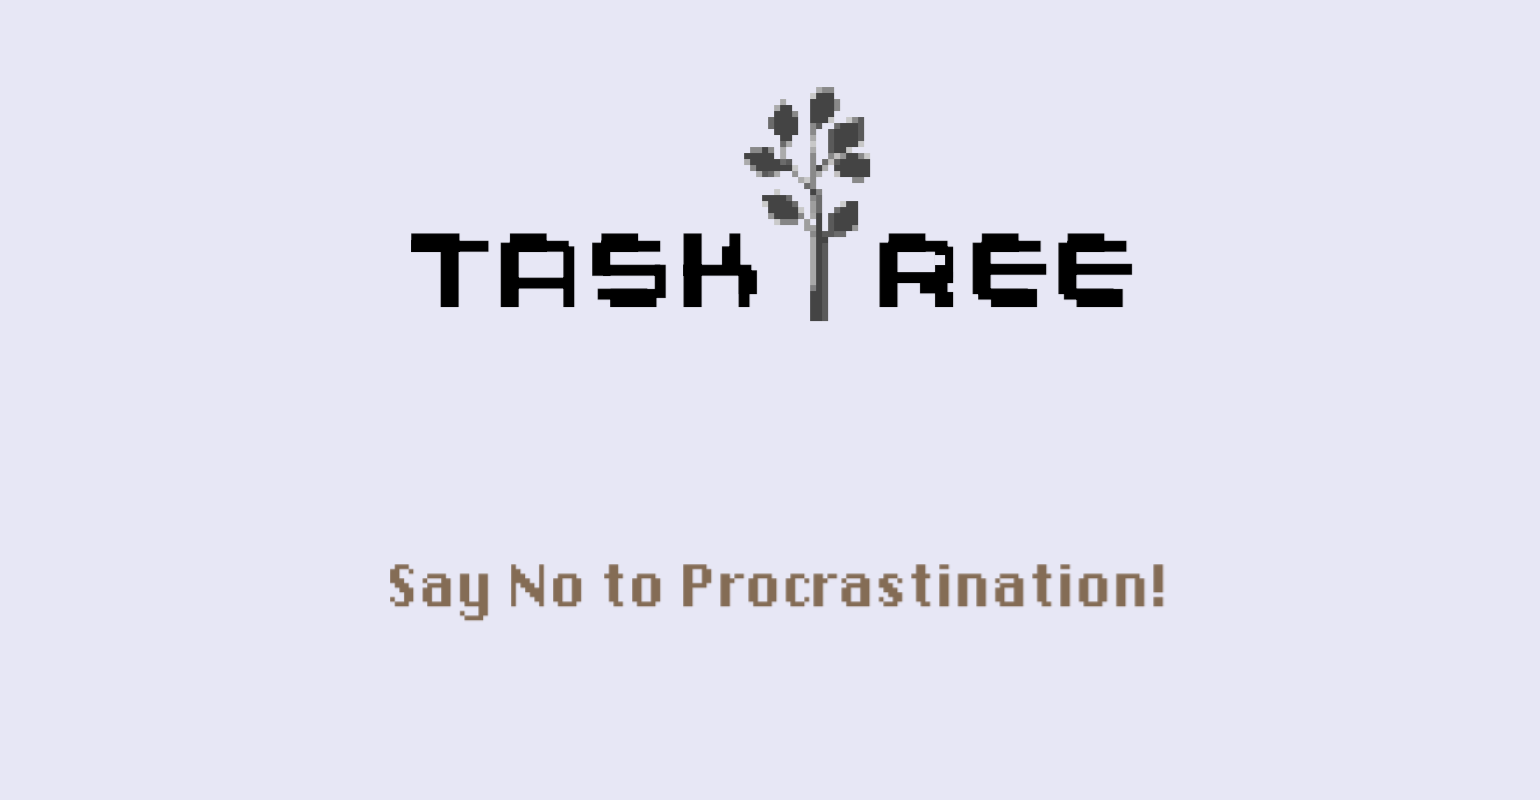
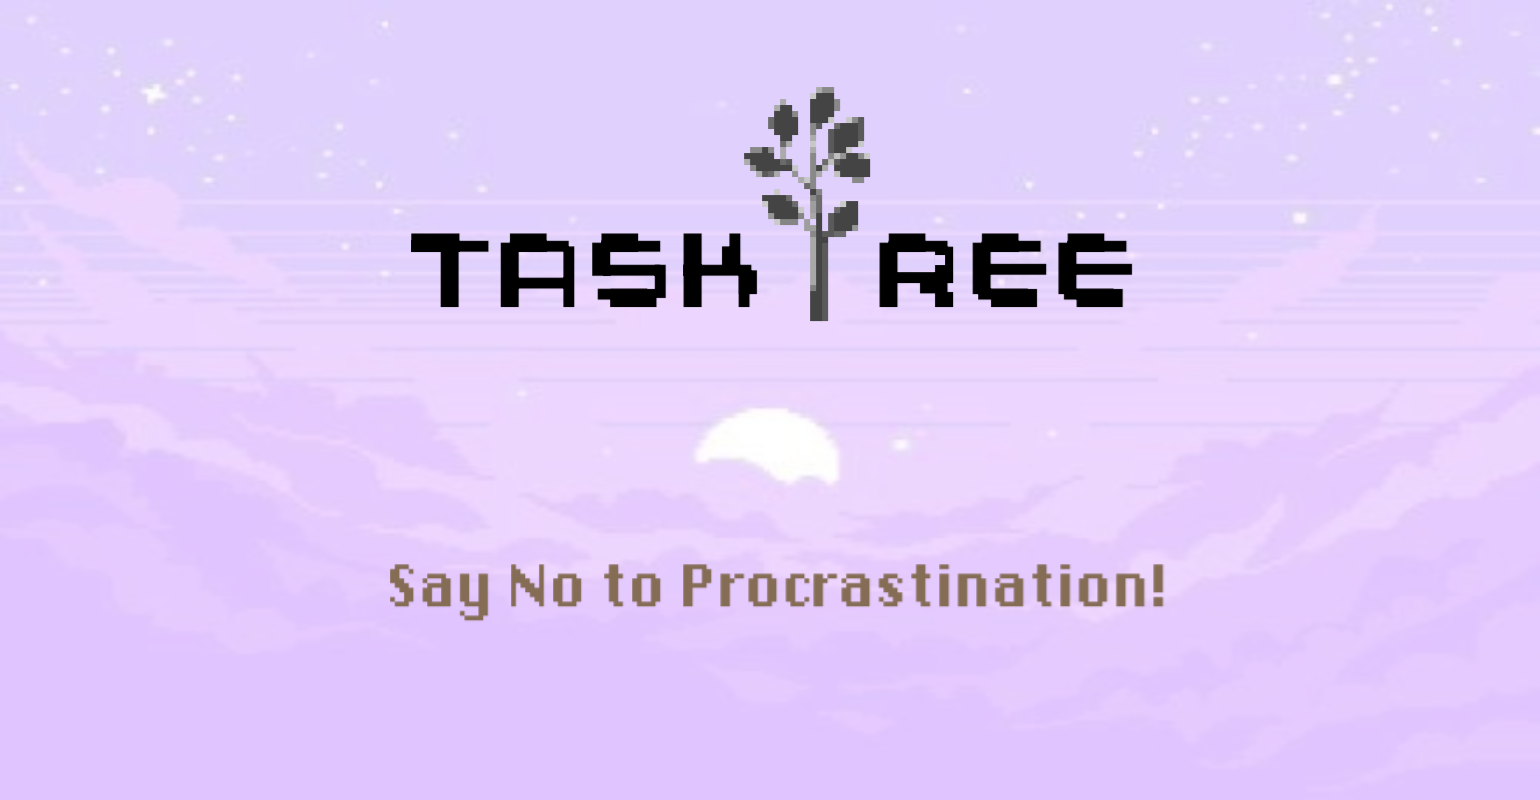
'adding-buttons-and-new-pages-with-new-design'

diff --git a/main.py b/main.py
@@ -44,19 +44,35 @@ decrease_pomodoro = BUTTON(245, 350, 40, 20)
 increase_break = BUTTON(245, 487, 40, 20)
 decrease_break = BUTTON(245, 510, 40, 20)
 
+start = BUTTON(20, 20)
+start_button = BUTTON((screen_width-650),550,100,300) 
+
+plant = BUTTON(0, 0)
+plant_button = BUTTON(90, 290, 70, 70)
+home = BUTTON(0, 0)
+home_button = BUTTON(90, 390, 70, 70)
+garden = BUTTON(0, 0)
+garden_button = BUTTON(90, 490, 70, 70)
+
+
+
 
 #screen functions
 def screen_startup():
     run = True
     while run:
-
+        
         for event in pygame.event.get():
             if event.type == pygame.QUIT:
                 run = False
+            #start button
+            if event.type == pygame.MOUSEBUTTONDOWN:
+                if start_button.check_for_input(pygame.mouse.get_pos()):
+                    screen_home()
+                    print("Switching to home screen.")
 
         bg('Design/frontpage.png')
-        if pygame.mouse.get_pressed()[0] == 1: 
-            screen_home()
+        start.image_button('Design/frontpage-button1.png')
         
         pygame.display.flip()
 
@@ -115,6 +131,14 @@ def screen_home():
                 if settings_button.check_for_input(pygame.mouse.get_pos()):
                     screen_settings()
                     print("Switching to settings screen.")
+                #plant button
+                if plant_button.check_for_input(pygame.mouse.get_pos()):
+                    screen_plant()
+                    print("Switching to plant screen.")
+                #garden button
+                if garden_button.check_for_input(pygame.mouse.get_pos()):
+                    screen_garden()
+                    print("Switching to garden screen.")
             #counting the time
             if event.type == pygame.USEREVENT and started:
                 if stopwatch:
@@ -146,9 +170,11 @@ def screen_home():
                                     start_stop_button.update_text("START")
                                     print("finish lap")
 
-
         bg('Design/main room.png')
         settings.image_button('Design/setting-button1.png')
+        plant.image_button('Design/plant-button.png')
+        home.image_button('Design/home-button.png')
+        garden.image_button('Design/garden-button.png')
         pomodoro_button.hover_color_change()
         break_button.hover_color_change()
         stopwatch_button.hover_color_change()
@@ -213,6 +239,44 @@ def screen_settings():
         back.image_button('Design/back-button.png')
         convert_time(pomodoro_length,180,330,60)
         convert_time(break_length,180,495,60)
+
+        pygame.display.flip()
+
+    pygame.quit()
+
+def screen_plant() :
+    run = True
+    while run:
+
+        for event in pygame.event.get():
+            if event.type == pygame.QUIT:
+                run = False
+            if event.type == pygame.MOUSEBUTTONDOWN:
+                if back_button.check_for_input(pygame.mouse.get_pos()):
+                    screen_home()
+                    print("Returning to homescreen")
+
+        bg('Design/plant1.png')
+        back.image_button('Design/back-button.png')
+
+        pygame.display.flip()
+
+    pygame.quit()
+
+def screen_garden() :
+    run = True
+    while run:
+
+        for event in pygame.event.get():
+            if event.type == pygame.QUIT:
+                run = False
+            if event.type == pygame.MOUSEBUTTONDOWN:
+                if back_button.check_for_input(pygame.mouse.get_pos()):
+                    screen_home()
+                    print("Returning to homescreen")
+
+        bg('Design/garden.png')
+        back.image_button('Design/back-button.png')
 
         pygame.display.flip()
 
